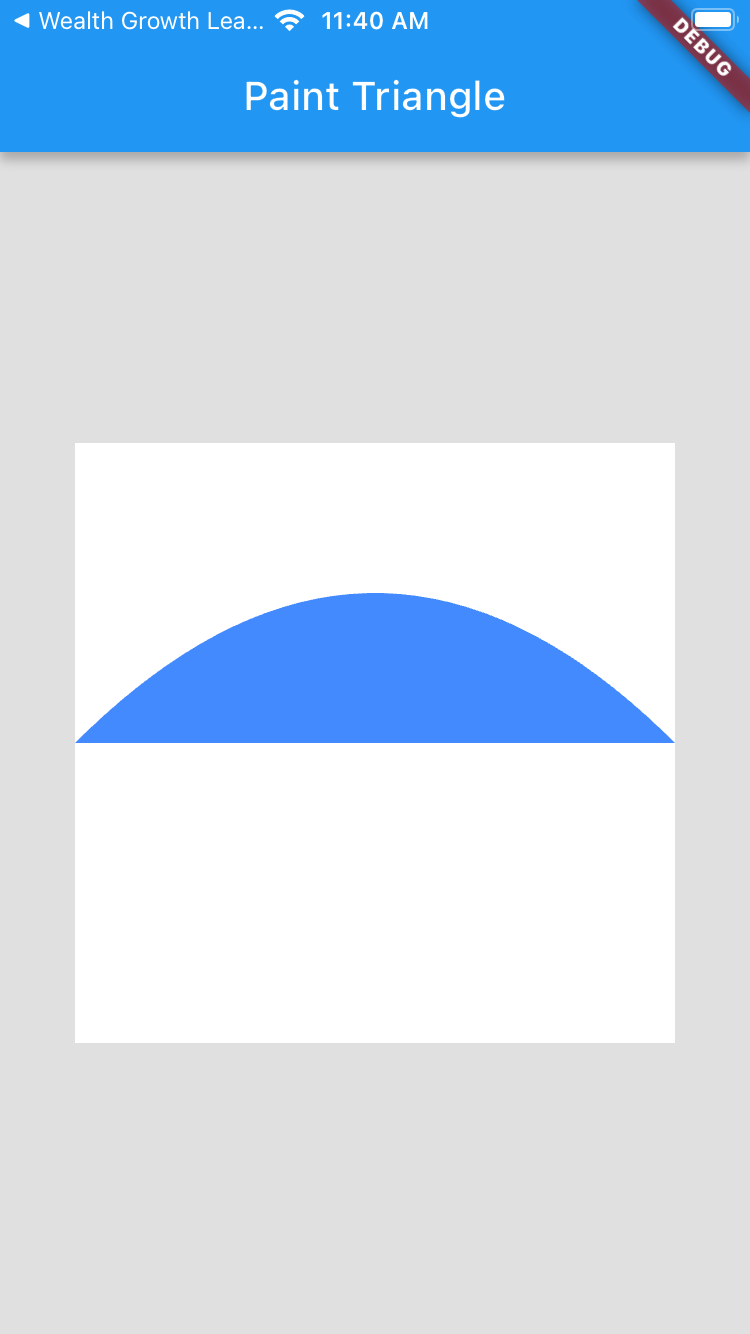
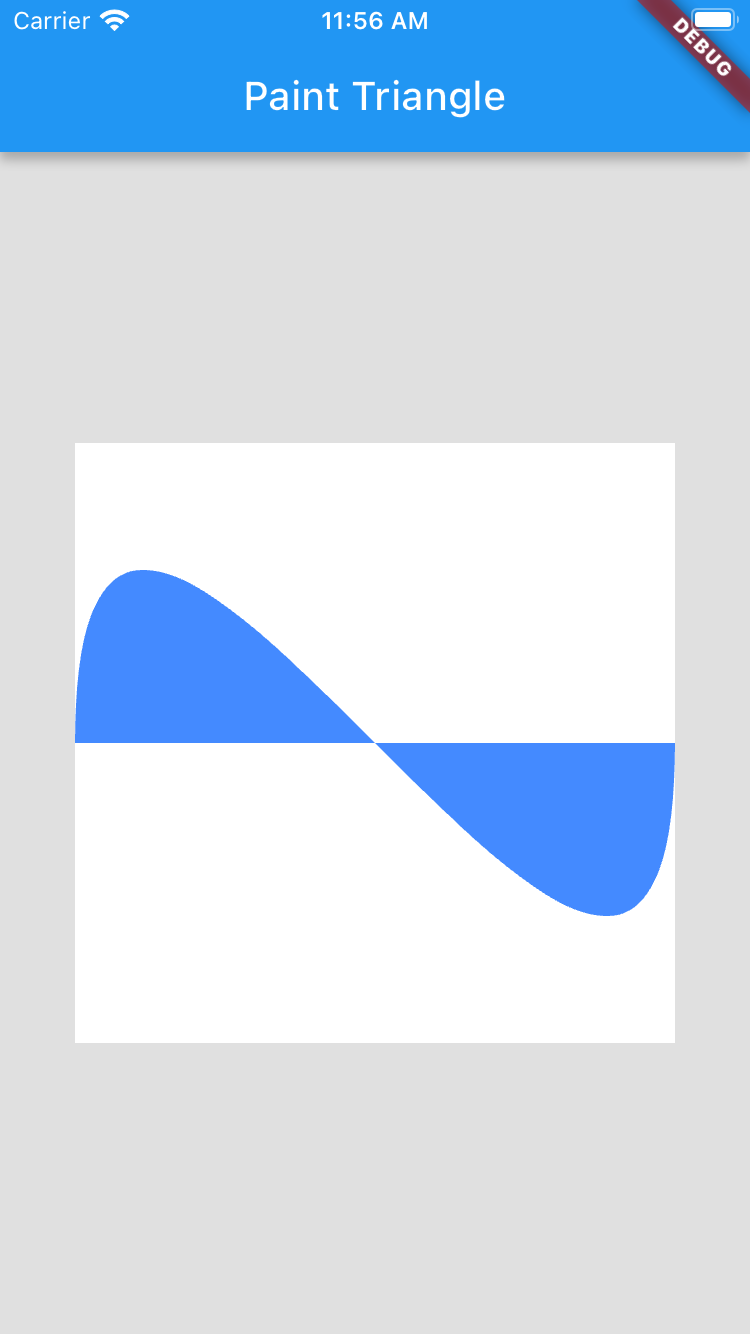
cubicCurves

diff --git a/lib/main.dart b/lib/main.dart
@@ -45,27 +45,26 @@ class HomeScreen extends StatelessWidget {
 class MyCustomPainter extends CustomPainter{
   @override
   void paint(Canvas canvas, Size size) {
-/*
-* Adds a quadratic bezier segment that curves from the current point to the point at the offset (x2,y2)
-*  from the current point, using the control point at the offset (x1,y1) from the current point.*/
+/*Adds a cubic bezier segment that curves from the current point to the point at the offset (x3,y3) from the current point, using the control points at the offsets (x1,y1) and (x2,y2) from the current point.*/
 
 
     // CREATING THE BRUSH
-    Paint brush=Paint()..strokeWidth=5..color=Colors.blueAccent..style = PaintingStyle.fill;
+    Paint brush=Paint()..strokeWidth=5..color=Colors.blueAccent..style = PaintingStyle.stroke;
 
-    Path qbezier=Path();
+    Path cbezier=Path();
     // MOVE THE STARTING POINT
-    qbezier.moveTo(0, size.height/2);
+    cbezier.moveTo(0, size.height/2);
     // DEFINING THE PATH FOR QUADRATIC BEZIER CURVE
     // SYNTAX
-    // DX DY DEFINES THE CONTROL POINT OFFSET
-    // 2DX 2DY DEFINES THE ENDPOINT OFFSET
+    // DX DY DEFINES THE CONTROL POINT1 OFFSET
+    // 2DX 2DY DEFINES THE CONTROL POINT2 OFFSET
+    // 3DX 3DY DEFINES THE ENDPOINT OFFSET
     // THE LAST OR SAY OUR FIRST POINT WILL BE OUR CURRENT POINT
-    //qbezier.relativeQuadraticBezierTo(DX, DY, 2DX, 2DY);
+    //qbezier.relativeCubicTo(DX, DY, 2DX, 2DY,3DX,3DX);
 
-    qbezier.relativeQuadraticBezierTo(size.width/2, -size.height/2, size.width, 0);
+    cbezier.relativeCubicTo(0, -size.height, size.width, size.height, size.width, 0);
     // DRAWING THE QUADRATIC BEZIER CURVE
-    canvas.drawPath(qbezier, brush);
+    canvas.drawPath(cbezier, brush);
 
 
   }

diff --git a/README.md b/README.md
@@ -14,13 +14,13 @@ A few resources to get you started if this is your first Flutter project:
 
 # Screenshot 
 
-<img src="https://github.com/Mirzaazmath/flutter_custompaint_overview/blob/quadraticCurves/assets/Screenshot1.png" height="400">
+<img src="https://github.com/Mirzaazmath/flutter_custompaint_overview/blob/cubicCurves/assets/Screenshot1.png" height="400">
 
 
 
 # Screenshot 2
 
-<img src="https://github.com/Mirzaazmath/flutter_custompaint_overview/blob/quadraticCurves/assets/Screenshot2.png" height="400">
+<img src="https://github.com/Mirzaazmath/flutter_custompaint_overview/blob/cubicCurves/assets/Screenshot2.png" height="400">
 
 - [Lab: Write your first Flutter app](https://docs.flutter.dev/get-started/codelab)
 - [Cookbook: Useful Flutter samples](https://docs.flutter.dev/cookbook)
